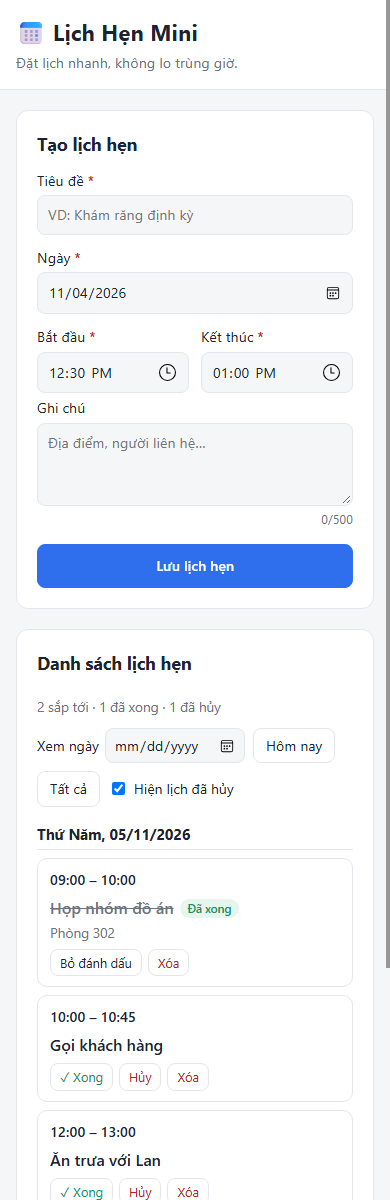
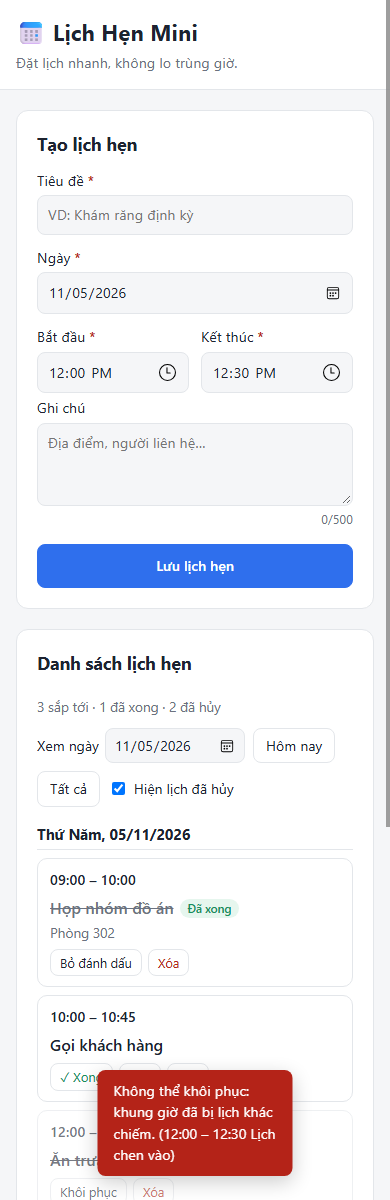
test: extend e2e (past date, end<start, XSS, filter, blocked restore) + manual test cases

diff --git a/scripts/e2e-smoke.js b/scripts/e2e-smoke.js
@@ -113,6 +113,40 @@ await sleep(800);
 await evaluate("document.querySelector('#btn-all').click()");
 check('E2E-9 reload trang → dữ liệu còn nguyên', (await count()) === afterSeed);
 
+const errorOf = (field) => evaluate(`document.querySelector('[data-for=${field}]').textContent`);
+await evaluate(fill('Ngược giờ', '16:00', '15:00'));
+check('E2E-10 giờ kết thúc trước giờ bắt đầu → lỗi', (await errorOf('end')) !== '');
+
+await evaluate(`(() => {
+  const d = new Date(); d.setDate(d.getDate() - 1);
+  document.querySelector('#f-title').value = 'Hôm qua';
+  document.querySelector('#f-date').value = d.toLocaleDateString('sv-SE');
+  document.querySelector('#f-start').value = '09:00'; document.querySelector('#f-end').value = '10:00';
+  document.querySelector('#appt-form button[type=submit]').click();
+})()`);
+check('E2E-11 đặt lịch quá khứ → lỗi', (await errorOf('start')).includes('quá khứ'));
+
+const xss = '<img src=x onerror="window.pwned=1">';
+await evaluate(fill(xss, '18:00', '18:30'));
+check(
+  'E2E-12 tiêu đề chứa HTML được hiển thị nguyên văn, không chạy',
+  (await evaluate(`[...document.querySelectorAll('.item .title')].some((t) => t.textContent.includes(${JSON.stringify(xss)})) && !window.pwned && !document.querySelector('.item img')`)),
+);
+
+await evaluate("document.querySelector('#filter-cancelled').click()");
+check('E2E-13 bỏ tick "Hiện lịch đã hủy" → ẩn lịch hủy', (await evaluate("document.querySelectorAll('.item.is-cancelled').length")) === 0);
+await evaluate("document.querySelector('#filter-cancelled').click()");
+
+// Hủy lịch 12:00, đặt lịch khác vào đúng giờ đó, rồi khôi phục lịch cũ → phải bị chặn
+const titleSel = (t) => `[...document.querySelectorAll('.item')].find((i) => i.querySelector('.title').textContent.startsWith(${JSON.stringify(t)}))`;
+await evaluate(`${titleSel('Ăn trưa với Lan')}.querySelector('.btn.danger').click()`);
+await evaluate(fill('Lịch chen vào', '12:00', '12:30'));
+await evaluate(`${titleSel('Ăn trưa với Lan')}.querySelector('.actions .btn').click()`);
+check(
+  'E2E-14 khôi phục lịch hủy khi giờ đã bị chiếm → bị chặn',
+  (await evaluate(`${titleSel('Ăn trưa với Lan')}.classList.contains('is-cancelled') && document.querySelector('#toast').classList.contains('error')`)),
+);
+
 // Màn hình điện thoại
 await send('Emulation.setDeviceMetricsOverride', { width: 390, height: 1200, deviceScaleFactor: 1, mobile: true });
 await sleep(300);

diff --git a/docs/TEST_CASES.md b/docs/TEST_CASES.md
@@ -1,0 +1,82 @@
+# Danh sách test case
+
+Có 3 lớp kiểm thử:
+
+| Lớp | Cách chạy | Kết quả |
+|---|---|---|
+| Unit test logic (`tests/scheduler.test.js`) | `npm test` | **36/36 pass** |
+| E2E smoke test trên trình duyệt thật (tự động hoá phần lớn bảng A) | `npm start` rồi `node scripts/e2e-smoke.js` | **14/14 pass** |
+| Test thủ công (bảng dưới) | Theo các bước trong bảng | **20/20 pass** |
+
+## A. Test thủ công
+
+**Môi trường:** Edge/Chrome trên Windows 11, desktop 1200px và mobile 390px. Trước khi test: mở DevTools → Application → Local Storage → xóa key `lich-hen-mini.v1`.
+**Dữ liệu chuẩn bị:** tạo trước lịch **"Họp nhóm" 09:00–10:00 ngày mai** (gọi tắt là lịch A).
+
+### A1. Tạo lịch trùng giờ (trọng tâm)
+
+| ID | Bước thực hiện | Kết quả mong đợi | Kết quả |
+|---|---|---|---|
+| TC-T01 | Tạo lịch 09:00–10:00 cùng ngày với A | Bị chặn; dưới ô giờ hiện "Khung giờ này trùng với lịch hẹn khác"; hộp vàng liệt kê A; A được viền vàng trong danh sách | ✅ Pass |
+| TC-T02 | Tạo lịch 08:30–09:30 (chồng đầu) | Bị chặn như T01 | ✅ Pass |
+| TC-T03 | Tạo lịch 09:45–10:30 (chồng cuối) | Bị chặn | ✅ Pass |
+| TC-T04 | Tạo lịch 09:15–09:45 (nằm trong A) | Bị chặn | ✅ Pass |
+| TC-T05 | Tạo lịch 08:00–11:00 (bao trùm A) | Bị chặn | ✅ Pass |
+| TC-T06 | Tạo lịch 10:00–11:00 (nối tiếp ngay sau A) | **Lưu thành công** | ✅ Pass |
+| TC-T07 | Tạo lịch 09:00–10:00 vào **ngày kia** | Lưu thành công | ✅ Pass |
+| TC-T08 | Hủy A, rồi tạo lịch 09:00–10:00 | Lưu thành công (lịch hủy không chiếm giờ) | ✅ Pass |
+| TC-T09 | Tiếp T08: bấm **Khôi phục** lịch A | Bị chặn; toast đỏ "Không thể khôi phục: khung giờ đã bị lịch khác chiếm" và nêu lịch đang chiếm | ✅ Pass |
+| TC-T10 | Tạo lịch 09:30–10:15 (trùng A), bấm "Dùng giờ trống gần nhất" | Form tự điền 10:00–10:45; bấm Lưu thì thành công | ✅ Pass |
+
+### A2. Validation
+
+| ID | Bước thực hiện | Kết quả mong đợi | Kết quả |
+|---|---|---|---|
+| TC-T11 | Để trống tiêu đề, bấm Lưu | "Vui lòng nhập tiêu đề."; ô viền đỏ; không tạo lịch | ✅ Pass |
+| TC-T12 | Tiêu đề chỉ có dấu cách | Lỗi như T11 | ✅ Pass |
+| TC-T13 | Giờ kết thúc 09:00, giờ bắt đầu 10:00 | "Giờ kết thúc phải sau giờ bắt đầu." | ✅ Pass |
+| TC-T14 | Chọn ngày hôm qua | "Không thể đặt lịch trong quá khứ." | ✅ Pass |
+| TC-T15 | Ghi chú dán 510 ký tự | Bộ đếm chuyển đỏ; lỗi "Ghi chú tối đa 500 ký tự." | ✅ Pass |
+| TC-T16 | Tiêu đề chứa `<img src=x onerror=alert(1)>` | Hiển thị đúng nguyên văn chuỗi, không chạy script | ✅ Pass |
+
+### A3. Danh sách & trạng thái
+
+| ID | Bước thực hiện | Kết quả mong đợi | Kết quả |
+|---|---|---|---|
+| TC-T17 | Bấm "Nạp dữ liệu mẫu", rồi "Tất cả" | Các lịch nhóm theo ngày, ngày và giờ tăng dần; ngày hôm nay có nhãn "Hôm nay" | ✅ Pass |
+| TC-T18 | Bấm "✓ Xong" trên một lịch | Tiêu đề gạch ngang, có nhãn "Đã xong"; thống kê cập nhật | ✅ Pass |
+| TC-T19 | Bỏ tick "Hiện lịch đã hủy" | Lịch hủy biến mất khỏi danh sách; tick lại thì hiện lại | ✅ Pass |
+| TC-T20 | Tạo/hủy vài lịch rồi F5 | Dữ liệu và trạng thái giữ nguyên | ✅ Pass |
+
+## B. Unit test tự động: tạo lịch trùng
+
+Trích từ `tests/scheduler.test.js` (mốc "hiện tại" cố định 01/11/2026 08:00; lịch có sẵn A = 05/11 09:00–10:00):
+
+| ID | Đầu vào | Mong đợi |
+|---|---|---|
+| TC-01 | 09:00–10:00 | Trùng (A) |
+| TC-02 | 08:30–09:30 | Trùng |
+| TC-03 | 09:45–10:30 | Trùng |
+| TC-04 | 09:15–09:45 | Trùng |
+| TC-05 | 08:00–11:00 | Trùng |
+| TC-06 | 10:00–11:00 | Không trùng (biên) |
+| TC-07 | 08:00–09:00 | Không trùng (biên) |
+| TC-08 | 06/11 09:00–10:00 | Không trùng (khác ngày) |
+| TC-09 | A đã hủy, 09:00–10:00 | Không trùng |
+| TC-10 | A đã xong, 09:30–10:30 | Không trùng |
+| TC-11 | 09:30–11:30 với 3 lịch A, B, C | Trùng A và C, sắp theo giờ |
+| TC-12 | Lịch 23:00–01:00, tạo 00:30–01:30 hôm sau | Trùng (qua nửa đêm) |
+| TC-13 | Tạo trùng | Mảng gốc không bị thay đổi |
+| TC-30 | Khôi phục lịch hủy khi đã có lịch khác chiếm | Bị chặn |
+
+Các test còn lại: gợi ý giờ trống (TC-14, 15), validation (TC-16 → 26), trạng thái (TC-27 → 33), danh sách (TC-34 → 36).
+
+Kết quả chạy:
+
+```
+$ npm test
+# tests 36
+# suites 5
+# pass 36
+# fail 0
+```
